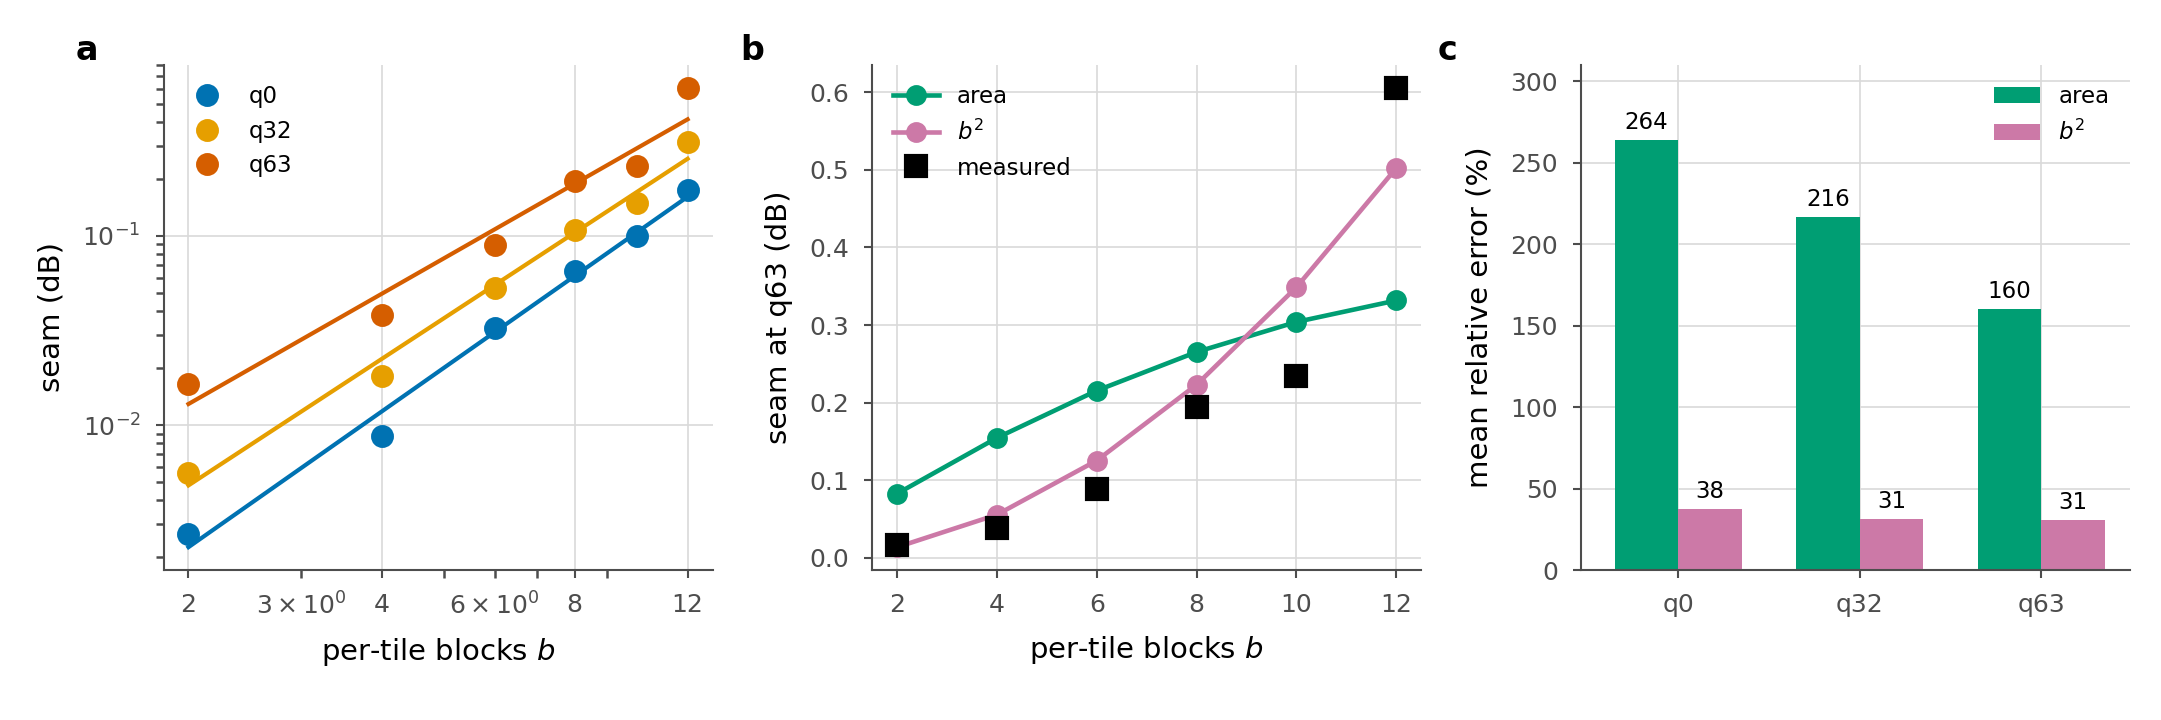
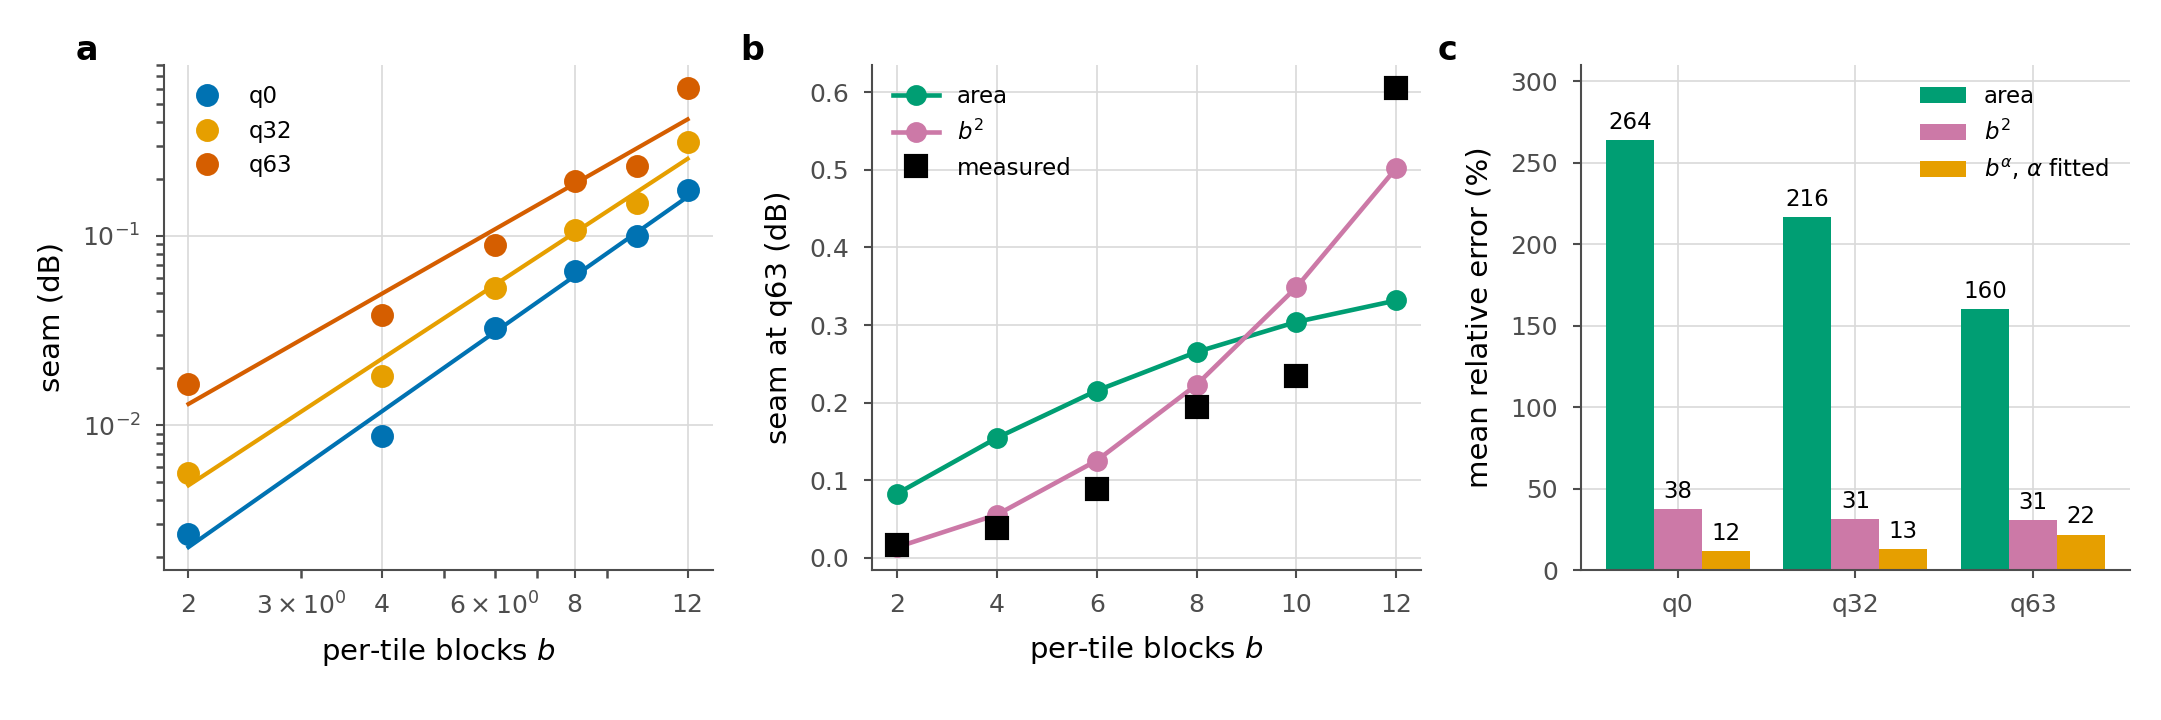
The b-squared law: separate the fitted exponent from a fixed square, which are not the same number
The abstract said the seam 'grows as b²' and the supplementary said that law
'fits to 12-22%'. Those are two different models. Measured on the same data:

  model                       q0    q32   q63
  corrupted-area fraction    264%   216%  160%
  fixed square, b^2           38%    31%   31%
  power law, exponent fitted  12%    13%   22%   (alpha = 2.38, 2.22, 1.93)

The 12-22% belongs to the fitted exponent, not to b^2. A fixed square is five
times better than the area law and two times worse than the fitted one -- the
right shape and not quite the right law, which is worth saying since the whole
point of the section is that the obvious model is wrong.

Panel c of the figure now shows all three bars rather than two, and check_paper
verifies all six numbers rather than none of them. Section 4's text was already
correct; the abstract and the supplementary were not.

diff --git a/scripts/build_pdf.py b/scripts/build_pdf.py
@@ -217,9 +217,10 @@ def content(colw, fullw):
         r"\BandUseLow% of that window at the lowest rate and \BandUseHigh% at "
         r"the highest. Both ends are in closed form and we verify seven structural "
         r"propositions numerically. <b>(ii)</b> Tiling is expensive and its cost "
-        r"is governed by depth, not area: the seam grows as b² in the number of "
-        r"per-tile convolutions, where the corrupted-area fraction usually "
-        r"quoted is wrong by 160–264%. <b>(iii)</b> The exact remedy — give "
+        r"is governed by depth, not area: the seam follows a power law in the "
+        r"number of per-tile convolutions with a fitted exponent near two, "
+        r"where the corrupted-area fraction usually quoted is wrong by "
+        r"160–264%. <b>(iii)</b> The exact remedy — give "
         r"each convolution its real neighbour — is bit-identical at uniform "
         r"depth and <i>destroys</i> the allocation under routing, because "
         r"routing is the deliberate violation of the condition that makes it "
@@ -565,7 +566,9 @@ def content(colw, fullw):
         r"seam follows a power law: <b>seam ∝ b<super>α</super></b> with α = "
         r"2.38, 2.22 and 1.93 at q0, q32 and q63, r = 0.98–0.995 in log-log. "
         r"Fitted with one free scale the area fraction is wrong by 160–264% "
-        r"where the power law is wrong by 12–22%. The exponent near two has a "
+        r"where the power law is wrong by 12–22%. Fixing the exponent at exactly "
+        r"two costs a factor of two, 31–38% — the square is the right shape and "
+        r"not quite the right law. The exponent near two has a "
         r"reading: the count of contaminated pixels grows like perimeter times "
         r"depth, and the error accumulated in each grows with how many "
         r"convolutions reached it. The area law saturates once every pixel is "

diff --git a/scripts/contamination_figure.py b/scripts/contamination_figure.py
@@ -43,16 +43,24 @@ ax[1].legend(fontsize=5.5, loc="upper left")
 ns.panel(ax[1], "b", dx=-0.24)
 
 # c: relative error of each model, all rates
-w = 0.35
+# Three models, not two: the area fraction, a fixed square, and a power with the
+# exponent fitted. The fitted exponent is what the paper's "roughly the square"
+# claim rests on -- a FIXED square is a good deal worse than it, and saying so is
+# the difference between a law and a slogan.
+w = 0.27
 for i, q in enumerate(qps):
     y = np.array(d["seam_db"][q])
     errs = []
     for m in (np.array(d["area_model"]), (b / b.max()) ** 2):
         s = (m @ y) / (m @ m)
         errs.append(100 * np.mean(np.abs(s * m - y) / y))
-    ax[2].bar(i - w / 2, errs[0], w, color=ns.GREEN)
-    ax[2].bar(i + w / 2, errs[1], w, color=ns.PURPLE)
-    for xx, e in ((i - w / 2, errs[0]), (i + w / 2, errs[1])):
+    A_ = np.vstack([np.log(b), np.ones_like(b)]).T
+    al, c0 = np.linalg.lstsq(A_, np.log(y), rcond=None)[0]
+    errs.append(100 * np.mean(np.abs(np.exp(c0) * b ** al - y) / y))
+    ax[2].bar(i - w, errs[0], w, color=ns.GREEN)
+    ax[2].bar(i, errs[1], w, color=ns.PURPLE)
+    ax[2].bar(i + w, errs[2], w, color=ns.ORANGE)
+    for xx, e in ((i - w, errs[0]), (i, errs[1]), (i + w, errs[2])):
         ax[2].annotate(f"{e:.0f}", (xx, e), fontsize=5.5, ha="center",
                        va="bottom", textcoords="offset points", xytext=(0, 1.5))
 ax[2].set_xticks(range(len(qps))); ax[2].set_xticklabels([f"q{q}" for q in qps])
@@ -60,6 +68,7 @@ ax[2].set_ylabel("mean relative error (%)")
 ax[2].set_ylim(0, 310)
 ax[2].bar(0, 0, color=ns.GREEN, label="area")
 ax[2].bar(0, 0, color=ns.PURPLE, label="$b^2$")
+ax[2].bar(0, 0, color=ns.ORANGE, label=r"$b^{\alpha}$, $\alpha$ fitted")
 ax[2].legend(fontsize=5.5, loc="upper right")
 ns.panel(ax[2], "c", dx=-0.26)
 

diff --git a/paper/main.tex b/paper/main.tex
@@ -47,8 +47,9 @@ the lowest rate and \BandUseHigh\% at the highest. Both ends are in closed form,
 and seven structural propositions are verified numerically rather than
 asserted.
 \textbf{(ii)}~Tiling is expensive and its cost is governed by depth, not area:
-the seam grows as $b^2$ in the number of per-tile convolutions, where the
-corrupted-area fraction usually quoted is wrong by $160$--$264\%$.
+the seam follows a power law in the number of per-tile convolutions with a
+fitted exponent near two, where the corrupted-area fraction usually quoted is
+wrong by $160$--$264\%$.
 \textbf{(iii)}~The exact remedy --- give each convolution its real neighbour ---
 is bit-identical at uniform depth and \emph{destroys} the allocation under
 routing, because routing is the deliberate violation of the condition that makes
@@ -499,7 +500,9 @@ with $b{=}0$ as an exact zero-seam control --- gives
 \end{equation}
 $\alpha = 2.38$ at $q0$ falling to $1.93$ at $q63$, $r = 0.98$--$0.995$ in
 log--log. Fitted with one free scale the area fraction is wrong by $160$--$264\%$
-where the power law is wrong by $12$--$22\%$. The exponent has a reading: the
+where the power law is wrong by $12$--$22\%$. Fixing the exponent at exactly two
+costs a factor of two, $31$--$38\%$ --- the square is the right shape and not
+quite the right law. The exponent has a reading: the
 count of contaminated pixels grows like perimeter times depth, $\propto b$, and
 the error accumulated in each grows with how many convolutions reached it, again
 $\propto b$. The area law saturates once every pixel is touched; the penalty does

diff --git a/scripts/check_paper.py b/scripts/check_paper.py
@@ -146,6 +146,28 @@ if hy and hyr:
     best = max(Tr.items(), key=lambda t: t[1])
     claim("C: best measured saving", 33.0, best[1], 0.1)
 
+# ---- the contamination law ------------------------------------------------
+cl = J("contamination_law.json")
+if cl:
+    import numpy as _np
+    _b = _np.array(cl["b"])
+    errs = {"area": [], "b2": [], "fit": []}
+    for q, y in cl["seam_db"].items():
+        y = _np.array(y)
+        for k, m in (("area", _np.array(cl["area_model"])),
+                     ("b2", (_b / _b.max()) ** 2)):
+            sc = (m @ y) / (m @ m)
+            errs[k].append(100 * _np.mean(_np.abs(sc * m - y) / y))
+        A_ = _np.vstack([_np.log(_b), _np.ones_like(_b)]).T
+        al, c0 = _np.linalg.lstsq(A_, _np.log(y), rcond=None)[0]
+        errs["fit"].append(100 * _np.mean(_np.abs(_np.exp(c0) * _b ** al - y) / y))
+    claim("contamination: area error, worst", 264, max(errs["area"]), 1)
+    claim("contamination: area error, best", 160, min(errs["area"]), 1)
+    claim("contamination: fitted power, worst", 22, max(errs["fit"]), 1)
+    claim("contamination: fitted power, best", 12, min(errs["fit"]), 1)
+    claim("contamination: fixed square, worst", 38, max(errs["b2"]), 1)
+    claim("contamination: fixed square, best", 31, min(errs["b2"]), 1)
+
 # ---- blend ----------------------------------------------------------------
 cb = J("combined_RECIPE512_b01.json")
 if cb:

diff --git a/paper/supplementary.tex b/paper/supplementary.tex
@@ -164,9 +164,13 @@ measurement could show.
 
 \begin{itemize}\itemsep3pt
 \item \textbf{``The corrupted-area fraction explains why split depth matters.''}
-      It predicts the seam with $160$--$264\%$ error. The penalty follows $b^2$,
-      which fits to $12$--$22\%$, because the area saturates once every pixel is
-      contaminated and the damage does not.
+      It predicts the seam with $160$--$264\%$ error, because the area
+      saturates once every pixel is contaminated and the damage does not. What
+      replaces it is a power law in $b$ with the exponent \emph{fitted} ---
+      $2.38$, $2.22$, $1.93$ at $q0$, $q32$, $q63$ --- which fits to
+      $12$--$22\%$. A fixed square, which earlier drafts quoted as though it
+      were the same thing, fits to $31$--$38\%$: better than the area by a
+      factor of five and worse than the fitted exponent by a factor of two.
 \item \textbf{``Canvas coupling is the clearest remaining gain, worth
       $3.5$--$5$ points.''} It removes $47$--$91\%$ of the floor and collapses the
       routed saving --- \CoupPaddedMid\% to \CoupCoupledMid\% at $q32$,
